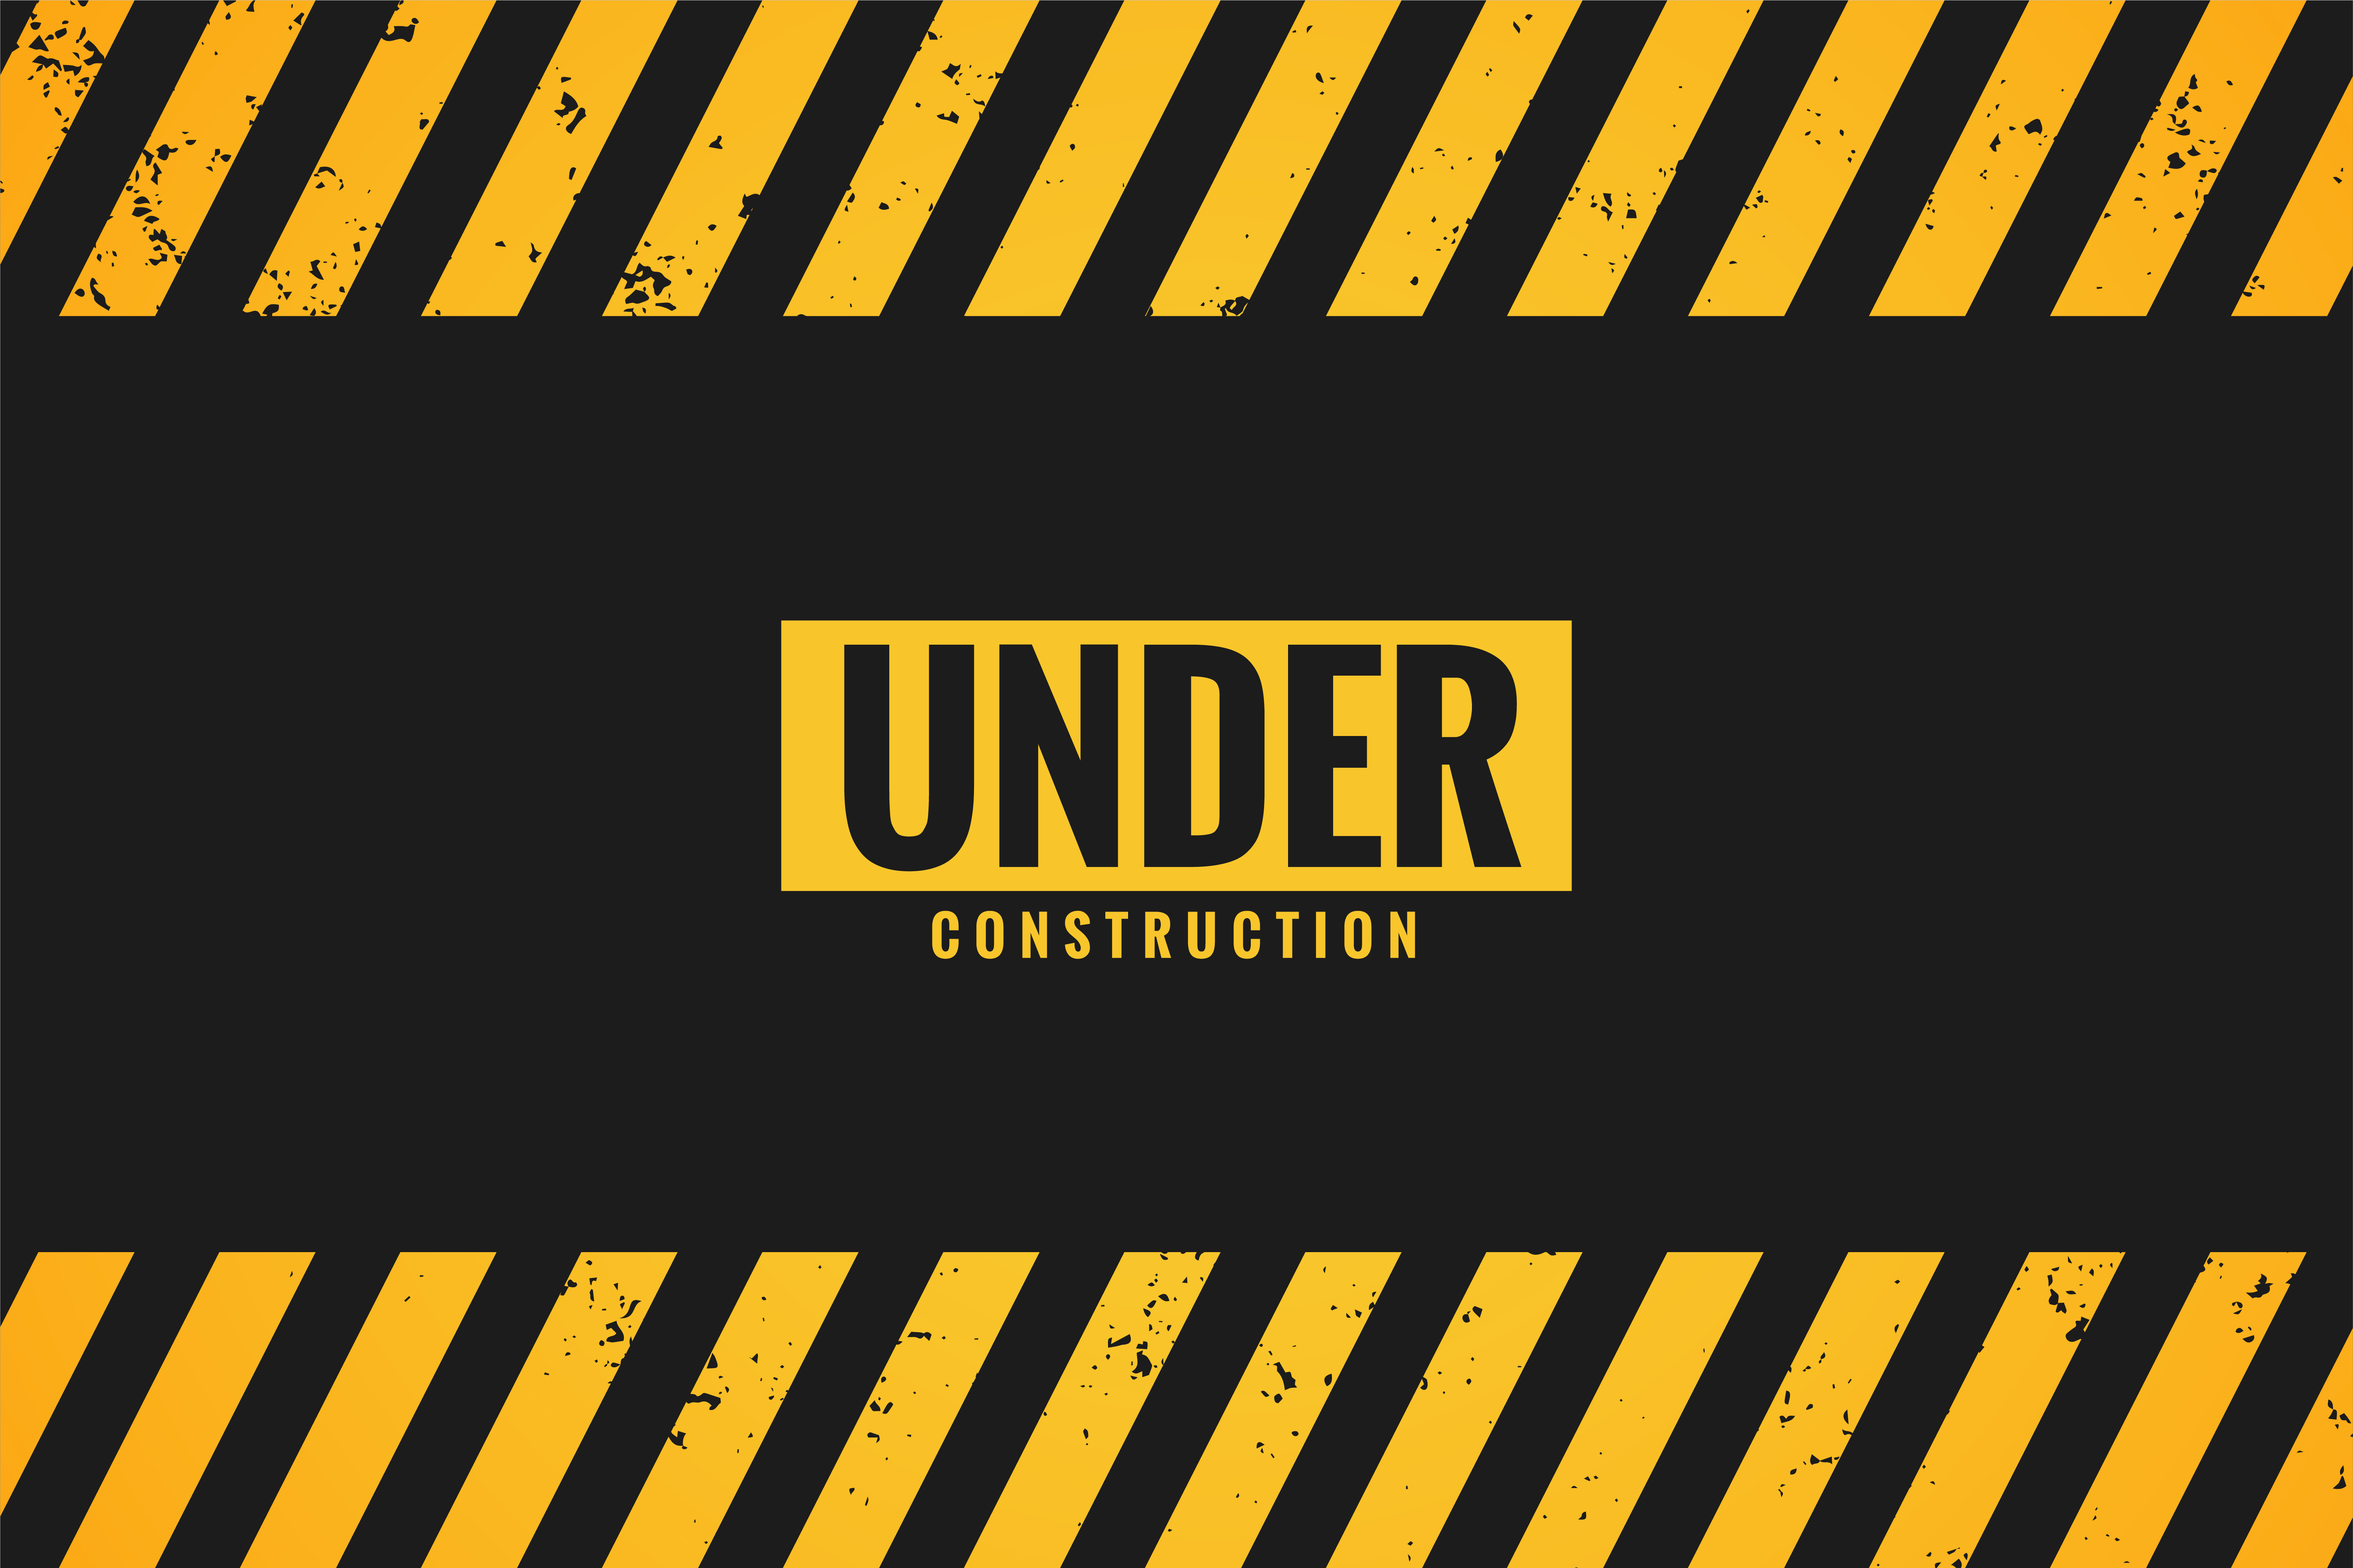
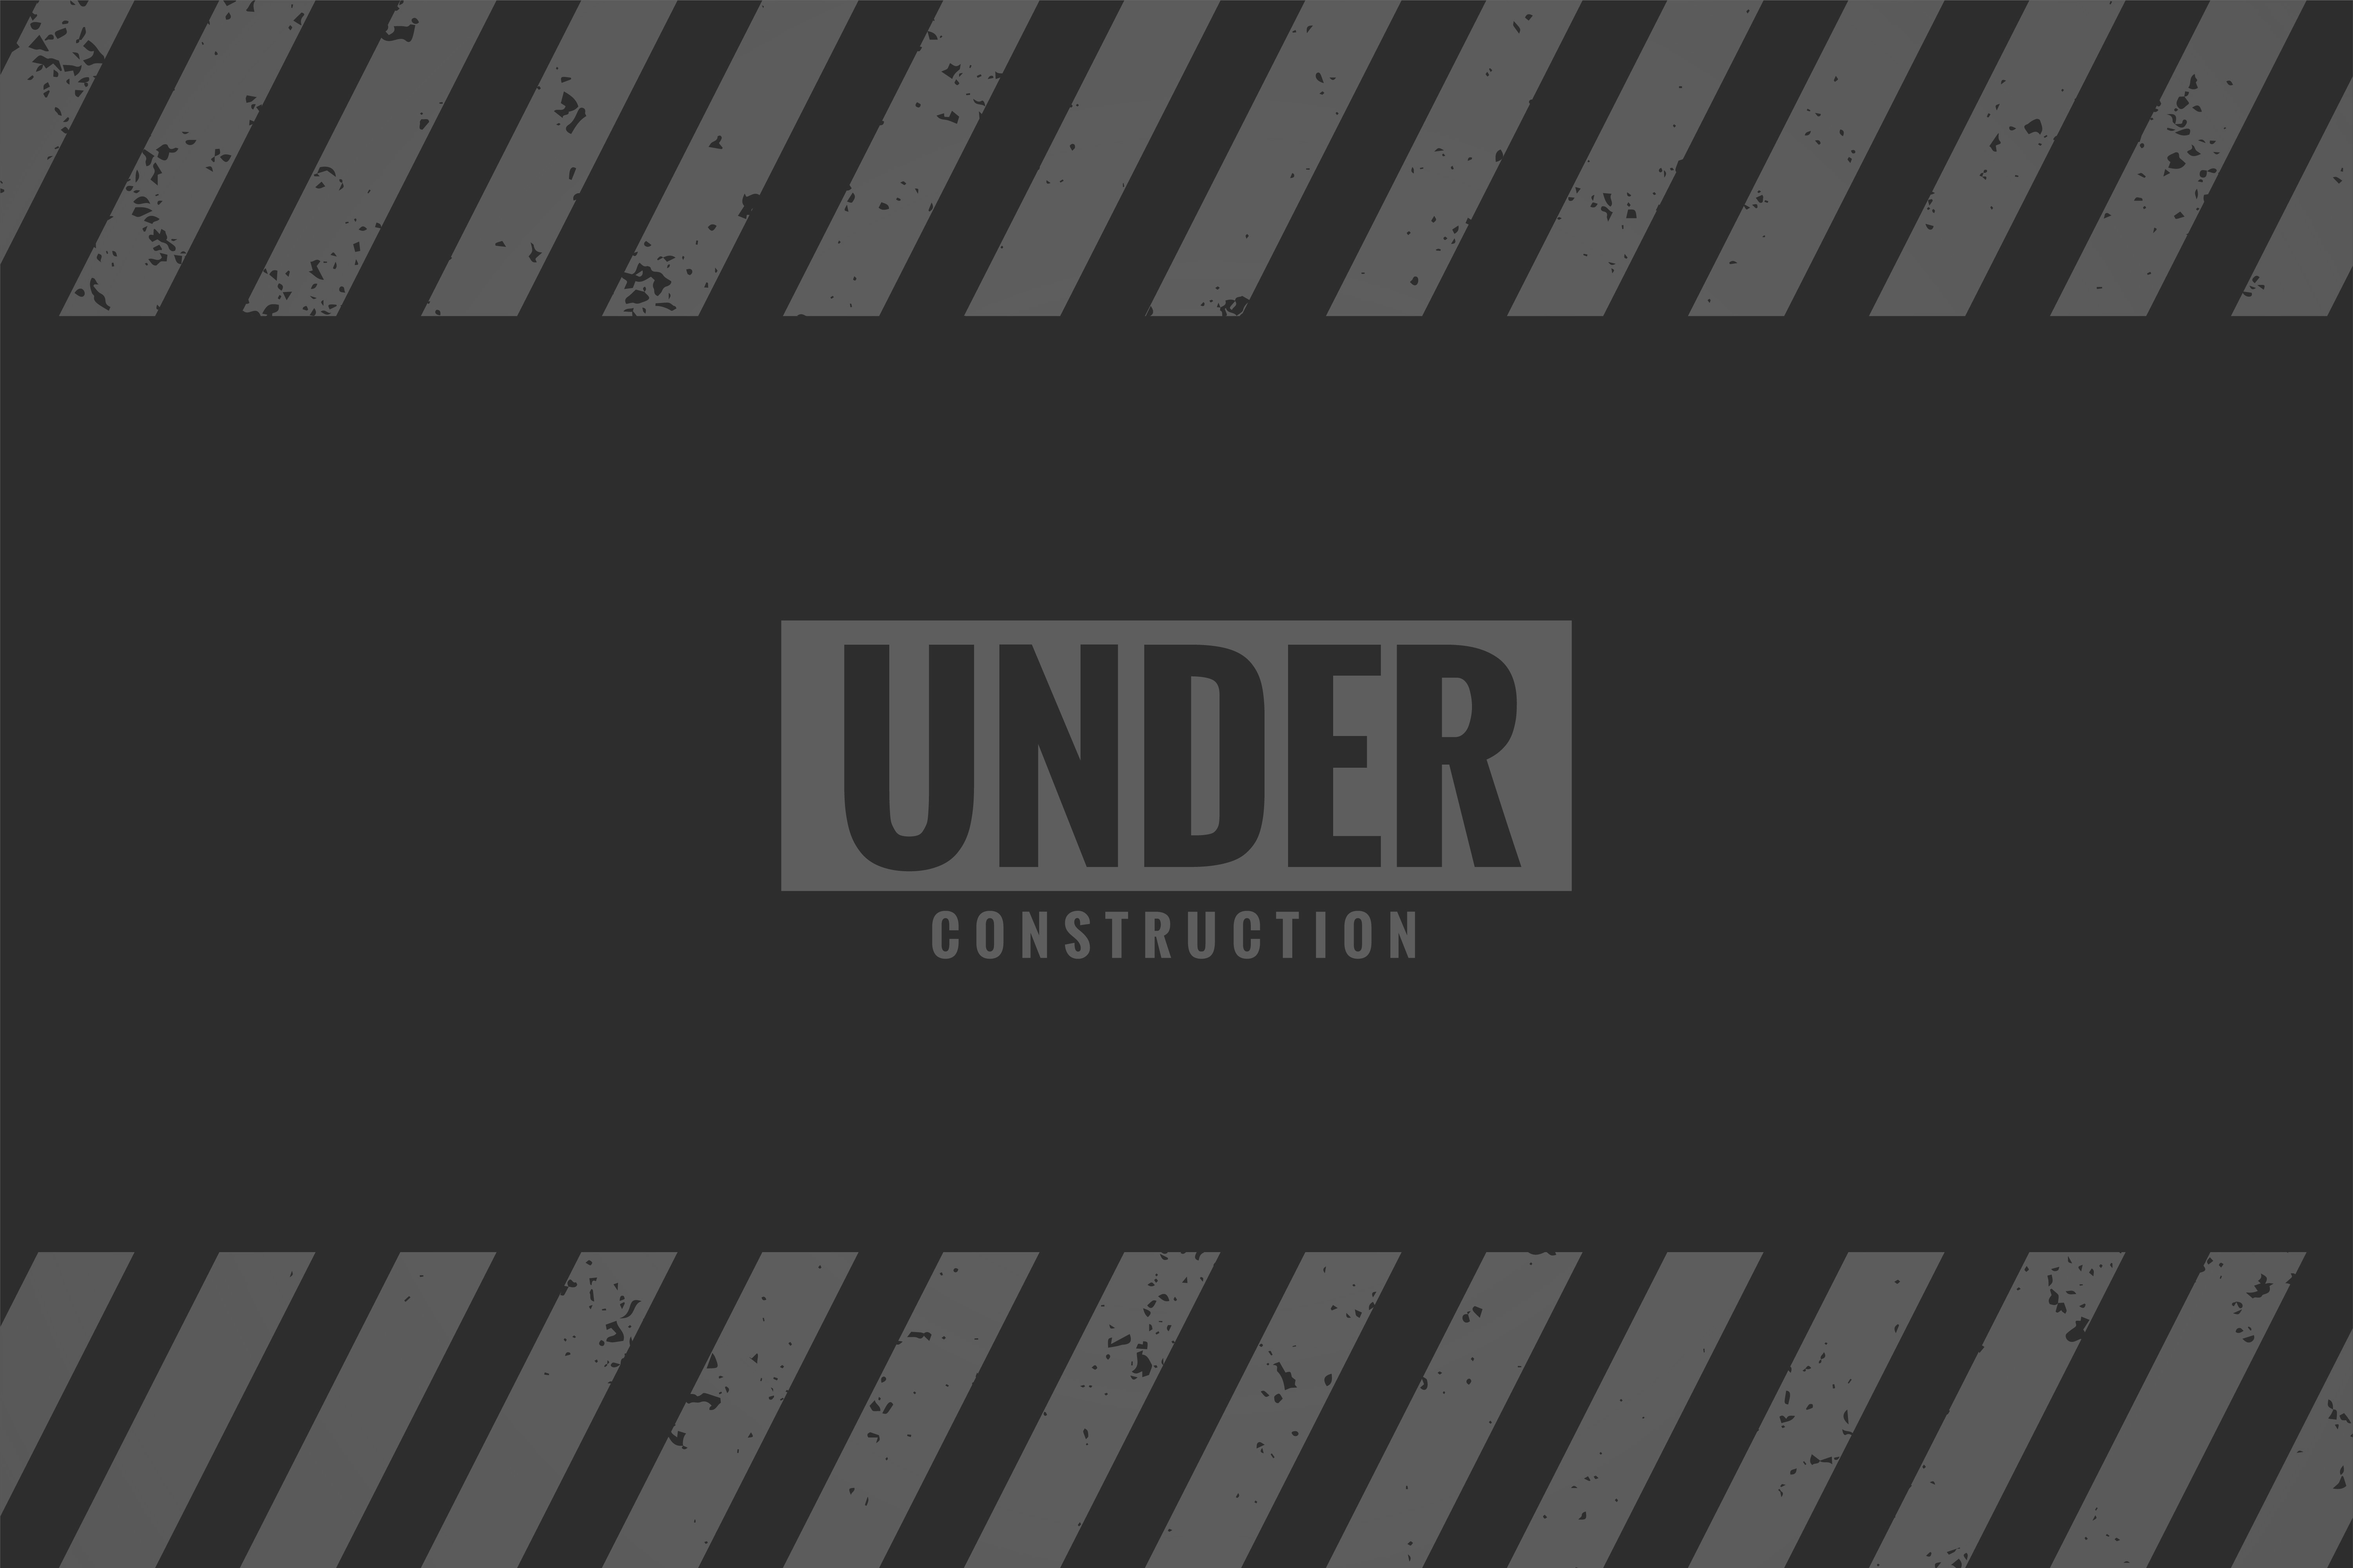
TBD: videos and news pages

Changed region(s): [[0.0, 0.7811, 1.0, 1.0], [0.0, 0.0, 1.0, 0.2187], [0.3116, 0.3749, 0.6856, 0.6248]]

diff --git a/src/app/pages/videos/videos.component.html b/src/app/pages/videos/videos.component.html
@@ -1,1 +1,2 @@
-<p>videos works!</p>
+<app-background-image-section [backgroundImage]="'/assets/under-construction.jpeg'" [backgroundColor]="'#000000'">
+</app-background-image-section>

diff --git a/src/app/pages/news/news.component.html b/src/app/pages/news/news.component.html
@@ -1,1 +1,2 @@
-<p>news works!</p>
+<app-background-image-section [backgroundImage]="'/assets/under-construction.jpeg'" [backgroundColor]="'#000000'">
+</app-background-image-section>
